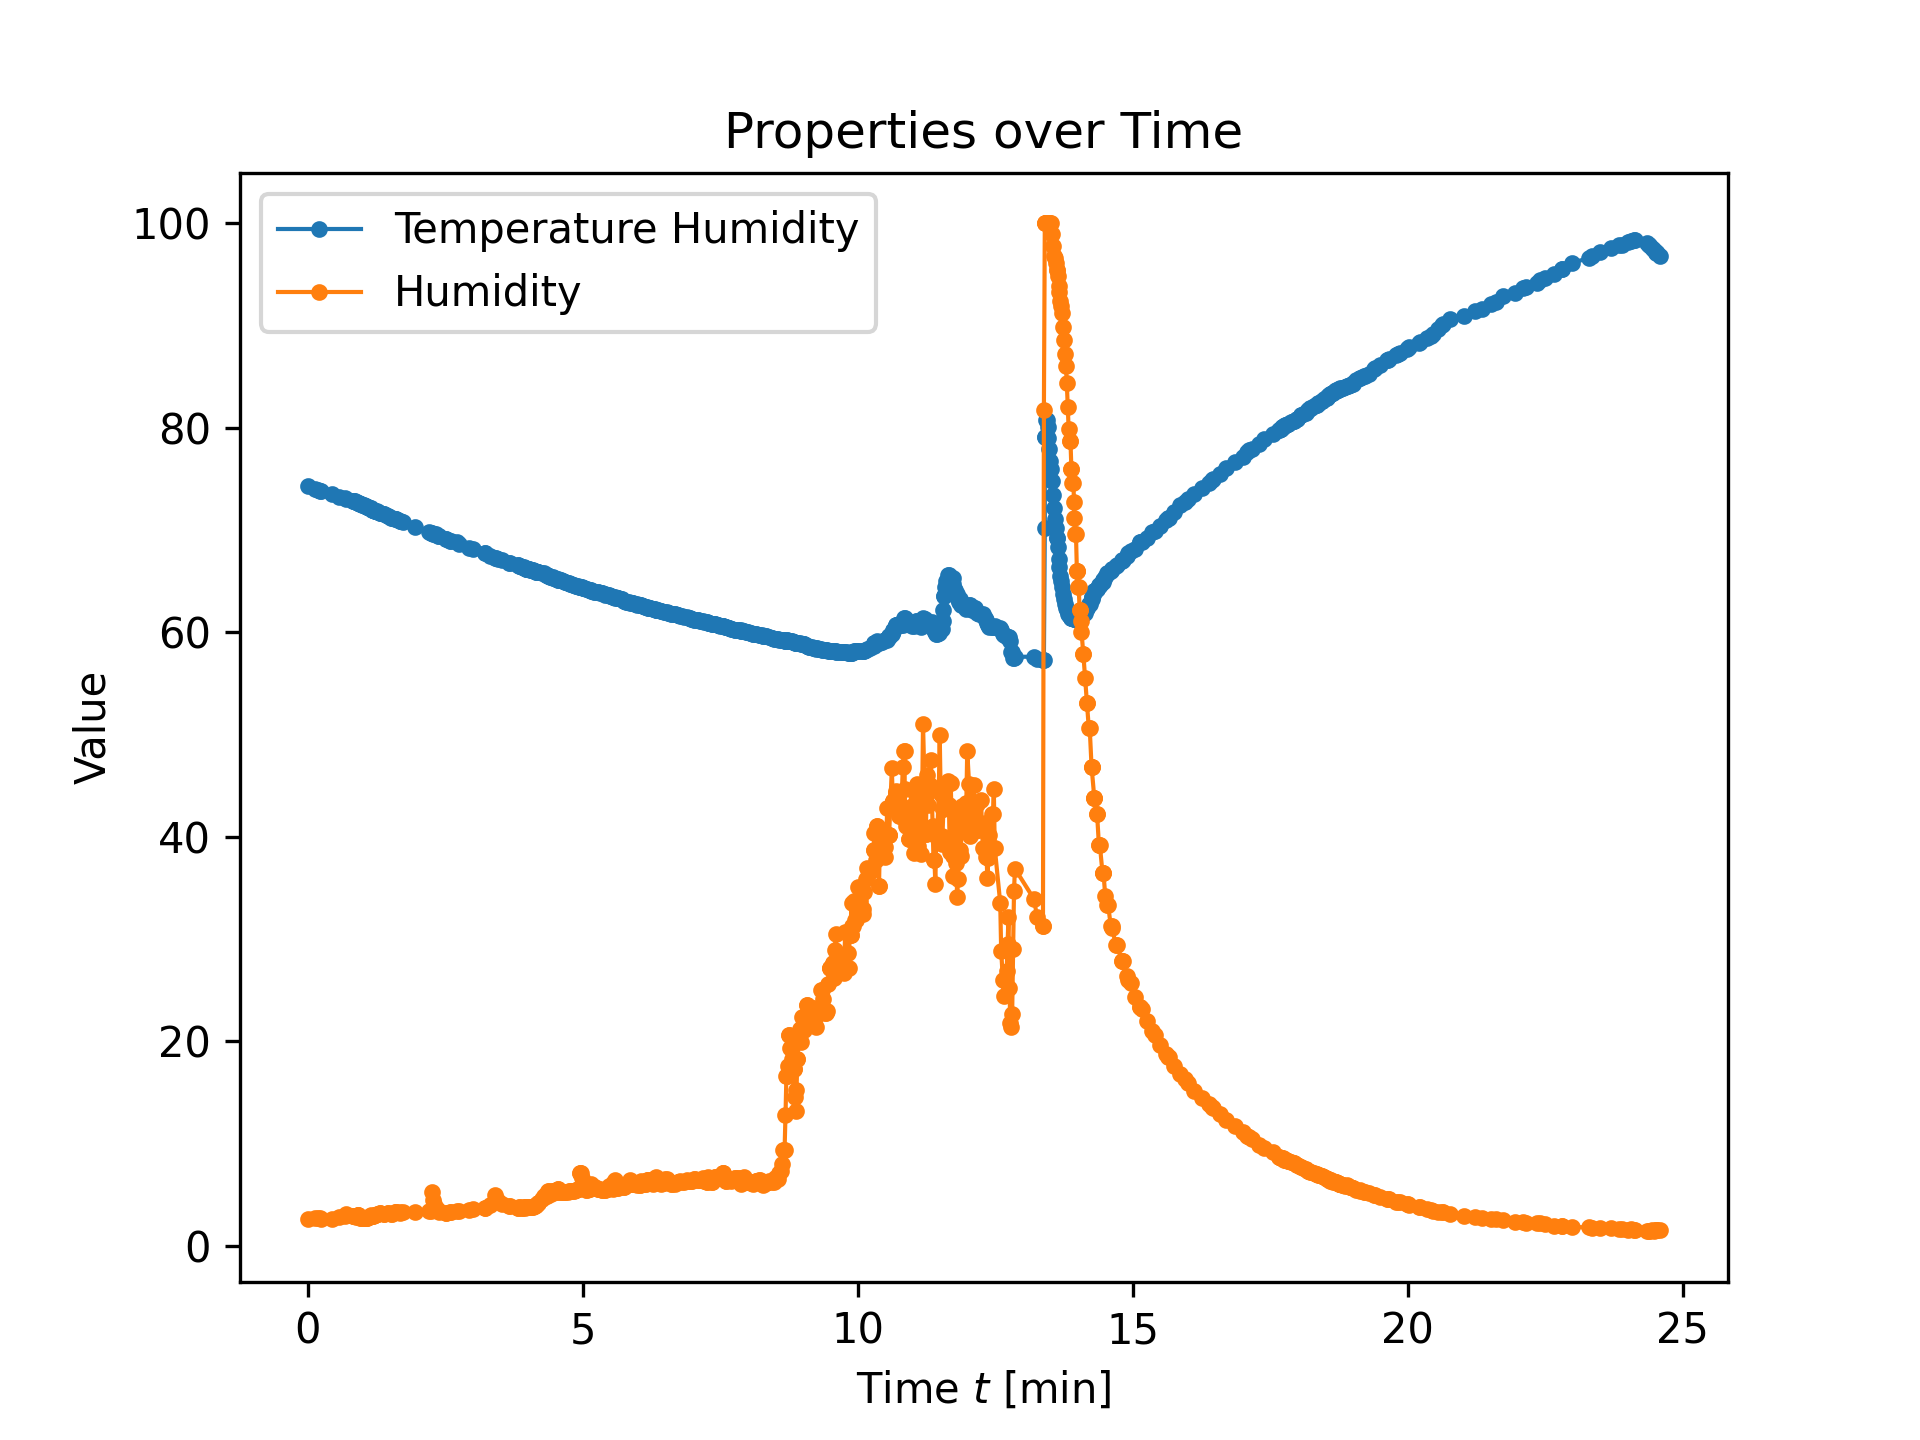
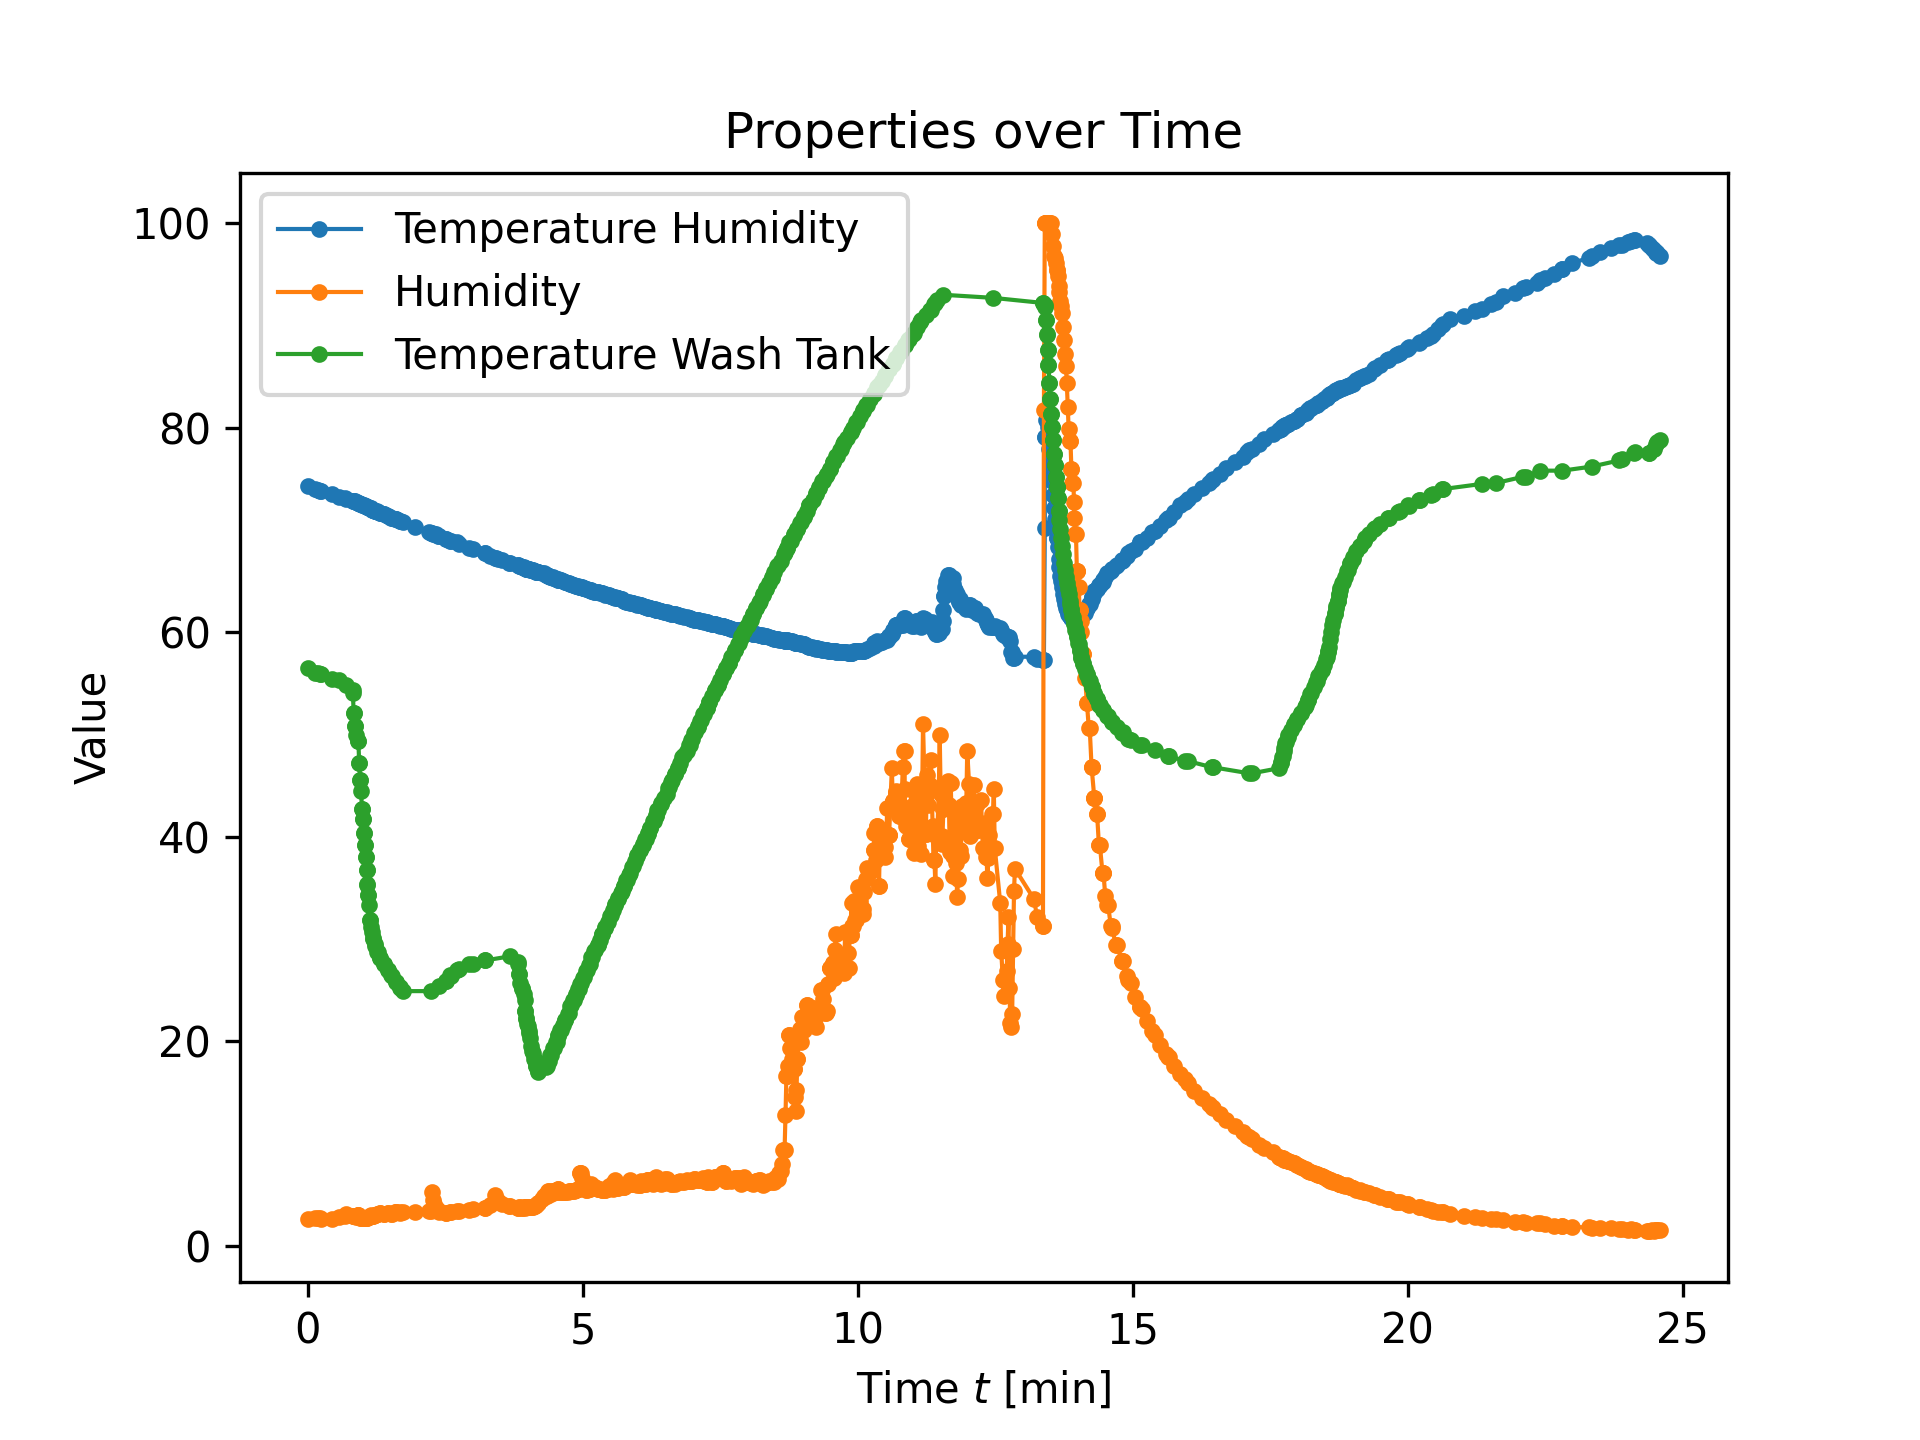
Updated graphs with drying/washing phases

diff --git a/data/graph.py b/data/graph.py
@@ -7,19 +7,34 @@ fname = "2050.json"
 file = open(fname)
 data = json.load(file)
 
-properties = ["Temperature Humidity", "Humidity"]
+# Plot relevant properties
+properties = ["Temperature Humidity", "Humidity", "Temperature Wash Tank"]
 for property in properties:
 
     prop = []
     tick = []
 
     for line in data['Logs']:
-        if line['name'] == property:
+        if line['name'] == property: # and line['tick'] > 834219:
             prop.append(line['value'])
             tick.append(line['tick']/1000/60)
 
     plt.plot(np.asarray(tick, float), np.asarray(prop, float), linestyle="-", linewidth=1, marker=".", label=str(property))
 
+# Plot relevant phases
+tick_phase = []
+phase_type = []
+
+for line in data['Logs']:
+    if line['name'] == "Phase type":
+        tick_phase.append(line['tick']/1000/60)
+        phase_type.append(line['value'])
+
+plt.vlines(tick_phase, -10, 120, colors="black", linestyle="--")
+for i in range(len(phase_type)):
+    plt.text(x=tick_phase[i]+0.05, y=-10+5*i, s=phase_type[i])
+
+# Show plot
 plt.title("Properties over Time")
 plt.xlabel(r"Time $t$ [min]")
 plt.ylabel("Value")
